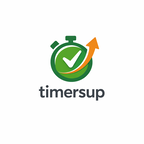
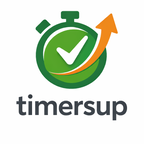
reajuste imagenes

Changed region(s): [[0.1111, 0.0556, 0.8889, 0.8611]]

diff --git a/app/dist/sw.js b/app/dist/sw.js
@@ -1,1 +1,1 @@
-if(!self.define){let e,i={};const n=(n,r)=>(n=new URL(n+".js",r).href,i[n]||new Promise(i=>{if("document"in self){const e=document.createElement("script");e.src=n,e.onload=i,document.head.appendChild(e)}else e=n,importScripts(n),i()}).then(()=>{let e=i[n];if(!e)throw new Error(`Module ${n} didn’t register its module`);return e}));self.define=(r,s)=>{const d=e||("document"in self?document.currentScript.src:"")||location.href;if(i[d])return;let o={};const f=e=>n(e,d),c={module:{uri:d},exports:o,require:f};i[d]=Promise.all(r.map(e=>c[e]||f(e))).then(e=>(s(...e),o))}}define(["./workbox-8c29f6e4"],function(e){"use strict";self.skipWaiting(),e.clientsClaim(),e.precacheAndRoute([{url:"registerSW.js",revision:"1872c500de691dce40960bb85481de07"},{url:"index.html",revision:"9d5c921d4154b5c5621186d423093cf2"},{url:"assets/index-Dfh8dbFZ.js",revision:null},{url:"assets/index-B9jWJ4Vd.css",revision:null},{url:"1024.png",revision:"87dbb6be96e40826683c75fb50a705a3"},{url:"114.png",revision:"278302d4d2b528d269925bfa53fae17c"},{url:"128.png",revision:"3e90bd6e3b2874eeb40d9e3b8eaf527f"},{url:"144.png",revision:"6f45d89fc4af7d767de8ade09f50d4ef"},{url:"152.png",revision:"e17787bd3aa3689e72995a1bb892e785"},{url:"192.png",revision:"4ce5fc0026ee9af8ea45e11beace3574"},{url:"256.png",revision:"2a9de5b3ff7077758a2be5a99af4472e"},{url:"32.png",revision:"8cbb01835a0cef2e4246decfabcb3596"},{url:"512.png",revision:"a6d3003d3ee08eb078875e2937a08567"},{url:"64.png",revision:"c73275f7bbd5e86f0bfe6d8c10f94057"},{url:"manifest.webmanifest",revision:"eb9102b9a4a23c3ab569d1950bace4c6"}],{}),e.cleanupOutdatedCaches(),e.registerRoute(new e.NavigationRoute(e.createHandlerBoundToURL("index.html")))});
+if(!self.define){let e,i={};const n=(n,r)=>(n=new URL(n+".js",r).href,i[n]||new Promise(i=>{if("document"in self){const e=document.createElement("script");e.src=n,e.onload=i,document.head.appendChild(e)}else e=n,importScripts(n),i()}).then(()=>{let e=i[n];if(!e)throw new Error(`Module ${n} didn’t register its module`);return e}));self.define=(r,s)=>{const f=e||("document"in self?document.currentScript.src:"")||location.href;if(i[f])return;let d={};const o=e=>n(e,f),c={module:{uri:f},exports:d,require:o};i[f]=Promise.all(r.map(e=>c[e]||o(e))).then(e=>(s(...e),d))}}define(["./workbox-8c29f6e4"],function(e){"use strict";self.skipWaiting(),e.clientsClaim(),e.precacheAndRoute([{url:"registerSW.js",revision:"1872c500de691dce40960bb85481de07"},{url:"index.html",revision:"9d5c921d4154b5c5621186d423093cf2"},{url:"assets/index-Dfh8dbFZ.js",revision:null},{url:"assets/index-B9jWJ4Vd.css",revision:null},{url:"1024.png",revision:"87dbb6be96e40826683c75fb50a705a3"},{url:"114.png",revision:"0b73dddc637ec21b650a81d47f01f071"},{url:"128.png",revision:"30f5fb78fe23dd271f74622e6d0c3396"},{url:"144.png",revision:"8237b4fad9943fb32f0f4fb5288958fd"},{url:"152.png",revision:"f0016b211d2558efafec36aea7f3193b"},{url:"192.png",revision:"6f4af99e45ea6b2914c4670c6c551c7d"},{url:"256.png",revision:"192b99c91dffd0679433c823afb4b5a5"},{url:"32.png",revision:"9a57b49e028cf87b052ba0882050703e"},{url:"512.png",revision:"a0a5233547f200db651b46d8ae7aaa2f"},{url:"64.png",revision:"ee5b2f745ea173078f3387dff043712a"},{url:"manifest.webmanifest",revision:"eb9102b9a4a23c3ab569d1950bace4c6"}],{}),e.cleanupOutdatedCaches(),e.registerRoute(new e.NavigationRoute(e.createHandlerBoundToURL("index.html")))});
